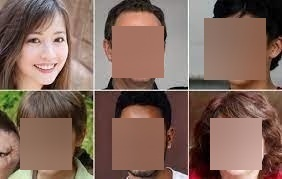
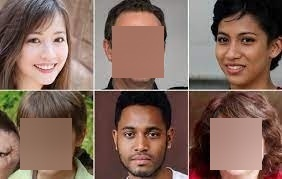
Update Branch
Update

Changed region(s): [[0.7092, 0.0838, 0.9645, 0.4469], [0.3972, 0.6425, 0.5957, 0.9497]]

diff --git a/ProjetoPDS/website/scriptaddPublicacao.js b/ProjetoPDS/website/scriptaddPublicacao.js
@@ -363,7 +363,7 @@ document.getElementById('addPublicacao').addEventListener('submit', async functi
                             auxListaDesfocar.push(utentesVerificar[i])
                         }
                     }
-                        await enviarDadosPessoaDesfoque(fotoOriginal, nomeFotoFicheiro, auxListaDesfocar);       
+                        await enviarDadosPessoaDesfoque(fotoOriginal, nomeFotoFicheiro, auxListaDesfocar, utentesVerificados);       
                 })
             bodyTag.appendChild(sendPessoaDesfoque)
             bodyTag.appendChild(sendCoordButtonAdd);
@@ -463,7 +463,7 @@ async function editarDadosPessoa(idUtilizadorBd, nome, valencia, sala, aut, uten
     }       
 }
 
-async function enviarDadosPessoaDesfoque(fotoOriginal, nomeFotoFicheiro, utentesVerificar)
+async function enviarDadosPessoaDesfoque(fotoOriginal, nomeFotoFicheiro, utentesVerificar, utentesVerificados)
 {
     // esVerificar[i].bottom;
     //                             await enviarDadosPessoaDesfoque(fotoOriginal, nomeFotoFicheiro, absolutePath, faceLeft,faceTop,faceRight
@@ -477,6 +477,7 @@ async function enviarDadosPessoaDesfoque(fotoOriginal, nomeFotoFicheiro, utentes
         const localPub = document.getElementById('localPostagem').value;
         formDataDesfoquePessoa.append('local', localPub);
         formDataDesfoquePessoa.append('utentesPorVerificar', JSON.stringify(utentesVerificar))
+        formDataDesfoquePessoa.append('utentesVerificados', JSON.stringify(utentesVerificados))
         const apiURL = 'https://localhost:7248/Desfoque/RealizarDesfoque';
         const requestOptions = {
             method:'POST',

diff --git a/ProjetoPDS/Controllers/DesfoqueController.cs b/ProjetoPDS/Controllers/DesfoqueController.cs
@@ -69,16 +69,53 @@ namespace ProjetoPDS.Controllers
 
         [HttpPost]
         [Route("RealizarDesfoque")]
-        public async Task<IActionResult> Desfoque([FromForm] string fotoOriginal, [FromForm] string nomeFotoFicheiro, [FromForm] string utentesPorVerificar)
+        public async Task<IActionResult> Desfoque([FromForm] string fotoOriginal, [FromForm] string nomeFotoFicheiro, [FromForm] string utentesPorVerificar, [FromForm] string local, [FromForm] string utentesVerificados)
         {
-            if (fotoOriginal == null)
+            if (fotoOriginal == null || utentesPorVerificar.Count() < 1 || utentesVerificados.Count()<1)
                 return BadRequest();
-
+            int numLocal = 0;
             FotoComDesfoque novoDesfoque = new FotoComDesfoque();
 
             List<UtenteVerificar> listaDesfoque = JsonConvert.DeserializeObject<List<UtenteVerificar>>(utentesPorVerificar);
+            List<UtenteIdentificado> listaDesfoqueVerificados = JsonConvert.DeserializeObject<List<UtenteIdentificado>>(utentesVerificados);
 
-            string fotoDesfocada= await novoDesfoque.AplicarDesfoque(fotoOriginal, nomeFotoFicheiro, listaDesfoque);
+            List<UtenteVerificar> auxListaDesfoque = novoDesfoque.VerificarAutorizacao(listaDesfoque);
+            List<UtenteIdentificado> auxListaDesfoqueVerificados = novoDesfoque.VerificarAutorizacaoVerificados(listaDesfoqueVerificados);
+
+
+            string auxNomeFicheiro = "";
+            if (local != null)
+            {
+                if (local == "EncEdc")
+                    numLocal = 1;
+                else if (local == "Sala")
+                    numLocal = 2;
+                else if (local == "Mural")
+                    numLocal = 3;
+                else if (local == "Chat")
+                    numLocal = 4;
+                else
+                    return BadRequest(string.Format("Não existe o local inserido: {0}", local));
+            }
+            string fotoDesfocada = "";
+            foreach(UtenteVerificar u in auxListaDesfoque)
+            {
+                fotoDesfocada = await novoDesfoque.AplicarDesfoque(fotoOriginal, nomeFotoFicheiro, auxListaDesfoque);
+            }
+
+            //foreach(UtenteIdentificado u in auxListaDesfoqueVerificados)
+            //{
+            //    if(u.Autorizacao < numLocal && u.Nome != null)
+            //    {
+            //        string nomeMinus = u.Nome.Replace(" ", "-");
+            //        auxNomeFicheiro = nomeFotoFicheiro + "_" + nomeMinus;
+            //        //checkar se existe na base de dados uma imagem ja com esse nome, para nao haver duplicatas, se tiver coloca um _2 tipo isto
+            //        fotoDesfocada = await novoDesfoque.AplicarDesfoque(fotoOriginal, nomeFotoFicheiro, auxListaDesfoque);
+            //        pathFotoDesfocada = novoDesfoque.AplicarDesfoque(fotoOriginal, pathImages + "\\" + auxNomeFicheiro + ".png"/*auxNomeFicheiro*/, listaDesfoque, utente.Nome);
+            //        nomeFicheiros.Add(string.Copy(pathFotoDesfocada));
+
+            //    }
+            //}
             var payloadFotoDesfocada = new
             {
                 pathFotoDesfocada = fotoDesfocada,

diff --git a/ProjetoPDS/Classes/FotoComDesfoque.cs b/ProjetoPDS/Classes/FotoComDesfoque.cs
@@ -406,6 +406,32 @@ namespace ProjetoPDS.Classes
         }
 
         /// <summary>
+        /// Função para definir quais os utilizadores que necessitam de ser desfocados.
+        /// </summary>
+        /// <param name="utentesVerificar"></param>
+        /// <returns></returns>
+        public List<UtenteVerificar> VerificarAutorizacao(List<UtenteVerificar> utentesVerificar)
+        {
+            List<UtenteVerificar> utentesVerificarAux = new List<UtenteVerificar>();
+
+            foreach (UtenteVerificar u in utentesVerificar)
+                if (u.Autorizacao < 3)
+                    utentesVerificarAux.Add(u);
+
+            return utentesVerificarAux;
+        }
+
+        public List<UtenteIdentificado> VerificarAutorizacaoVerificados(List<UtenteIdentificado> utentesVerificados)
+        {
+            List<UtenteIdentificado> utentesVerificadosAux = new List<UtenteIdentificado>();
+
+            foreach (UtenteIdentificado u in utentesVerificados)
+                if (u.Autorizacao < 3)
+                    utentesVerificadosAux.Add(u);
+
+            return utentesVerificadosAux;
+        }
+        /// <summary>
         /// Função para dar shutdown no python
         /// </summary>
         public void ShutdownPython()

diff --git a/ProjetoPDS/Classes/Publicacao.cs b/ProjetoPDS/Classes/Publicacao.cs
@@ -7,7 +7,6 @@
 *	<description></description>
 **/
 
-using Microsoft.VisualBasic;
 using System.ComponentModel.DataAnnotations;
 using System.ComponentModel.DataAnnotations.Schema;
 

diff --git a/ProjetoPDS/Controllers/UtenteController.cs b/ProjetoPDS/Controllers/UtenteController.cs
@@ -1,7 +1,6 @@
 using Microsoft.AspNetCore.Mvc;
 using Newtonsoft.Json;
 using ProjetoPDS.Classes;
-using System.Drawing;
 
 namespace ProjetoPDS.Controllers
 {
